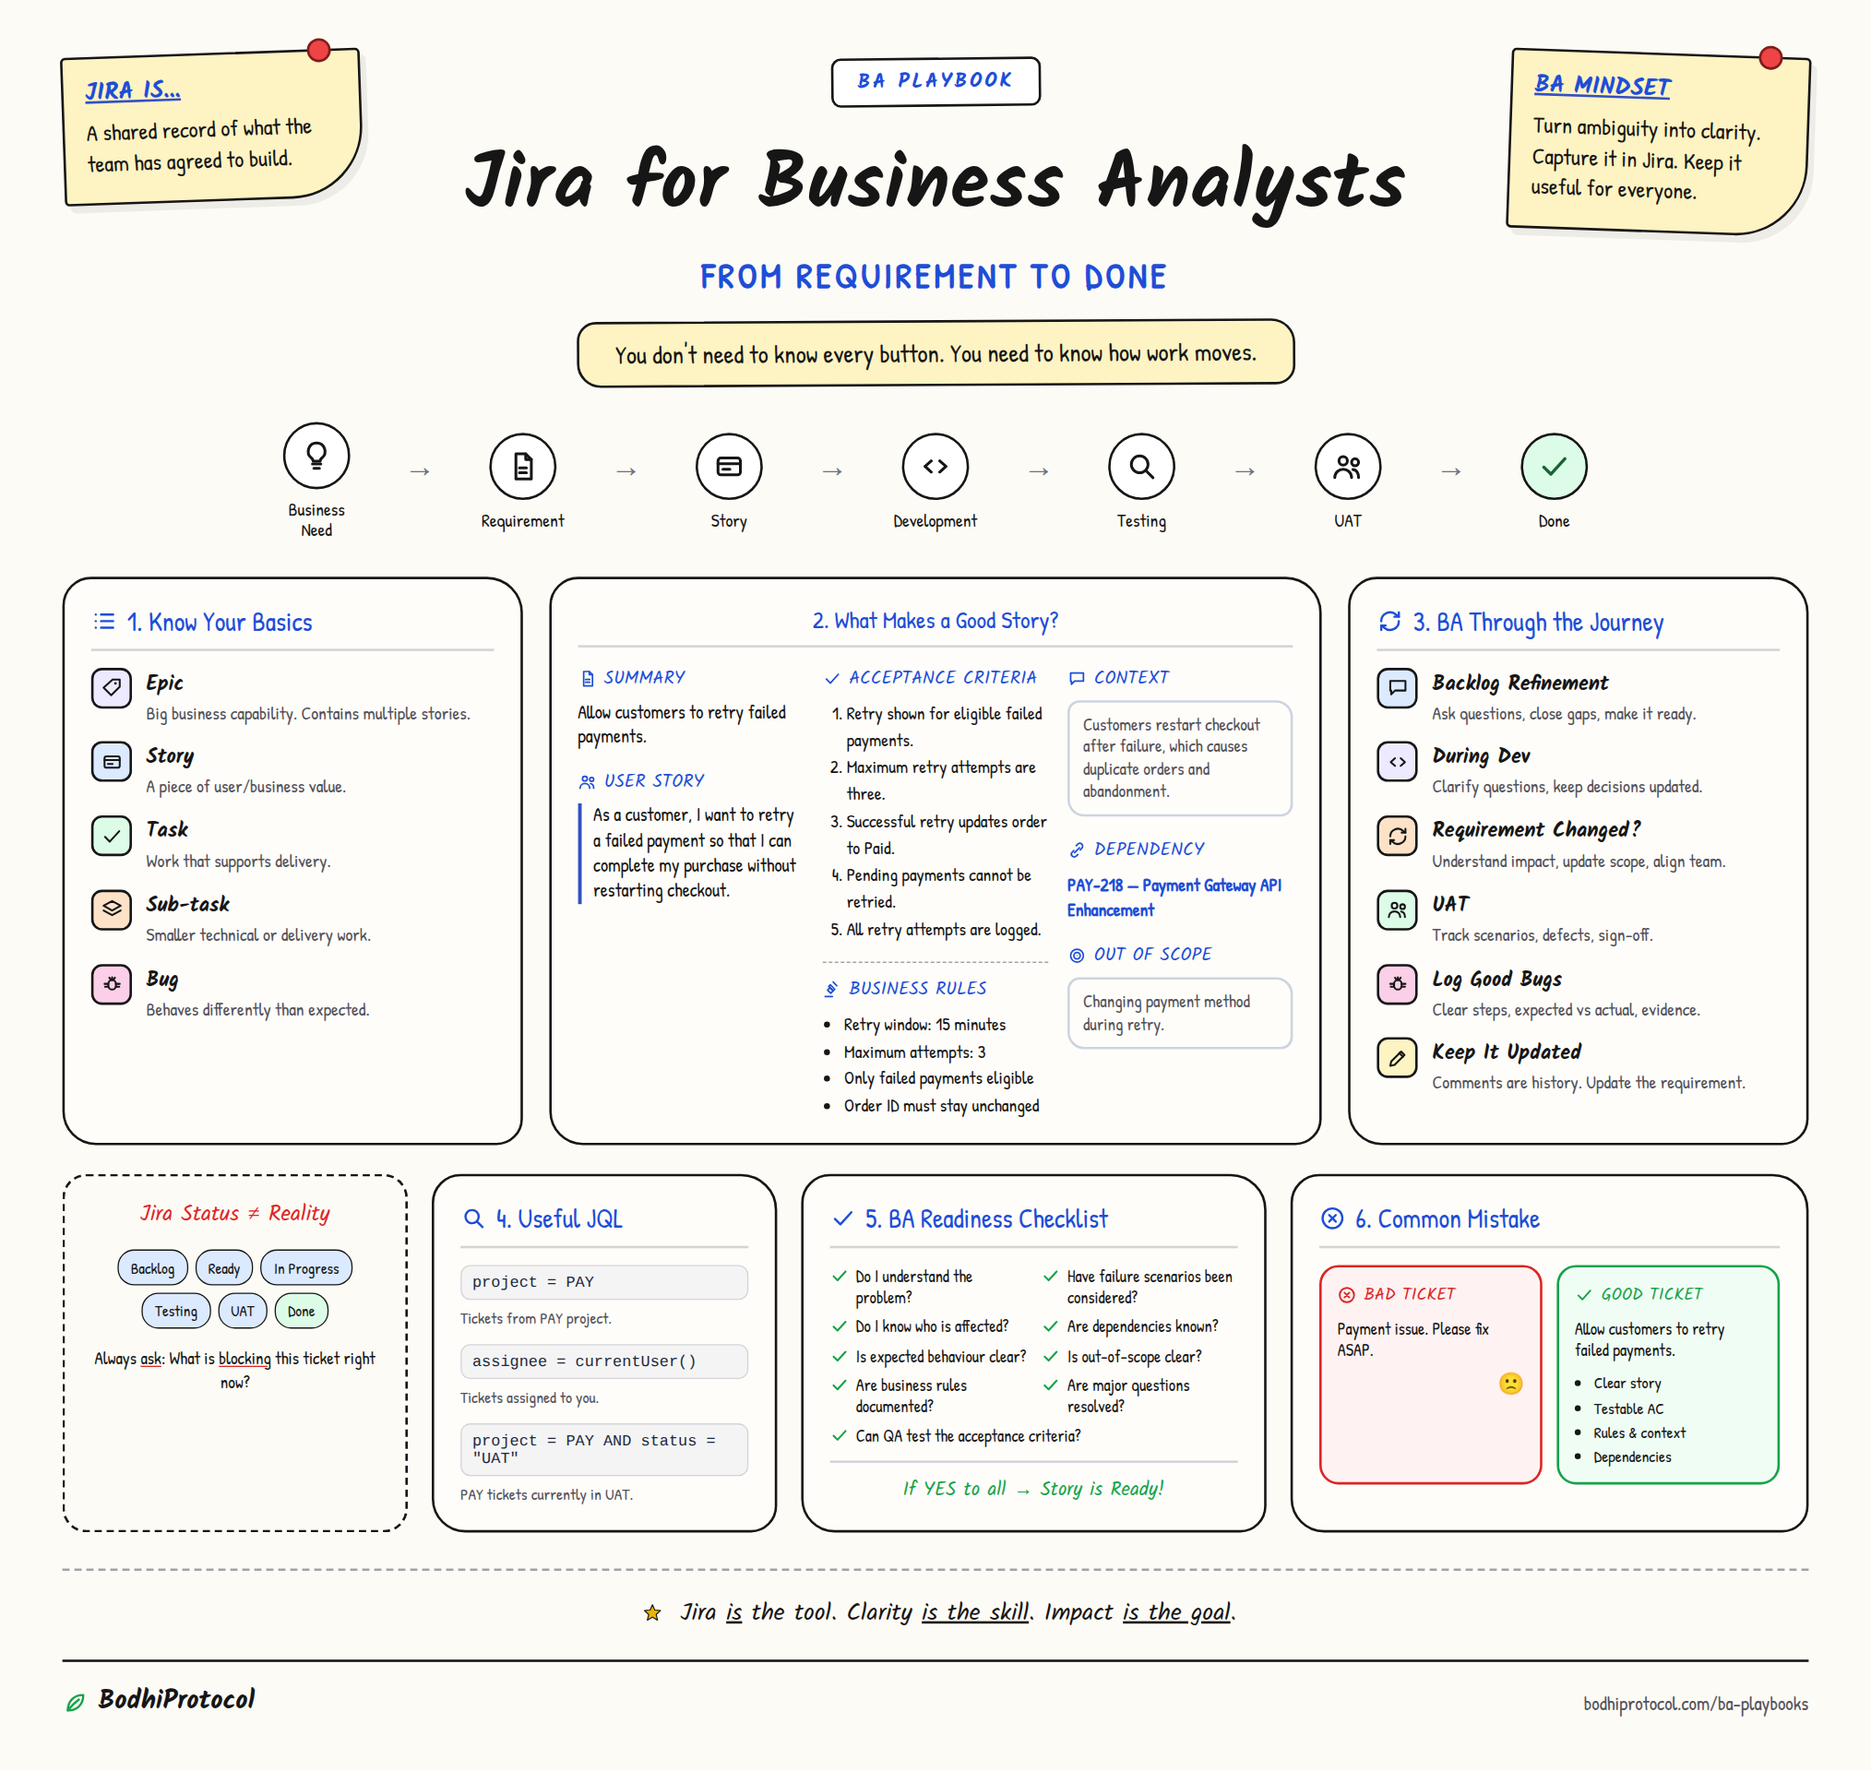
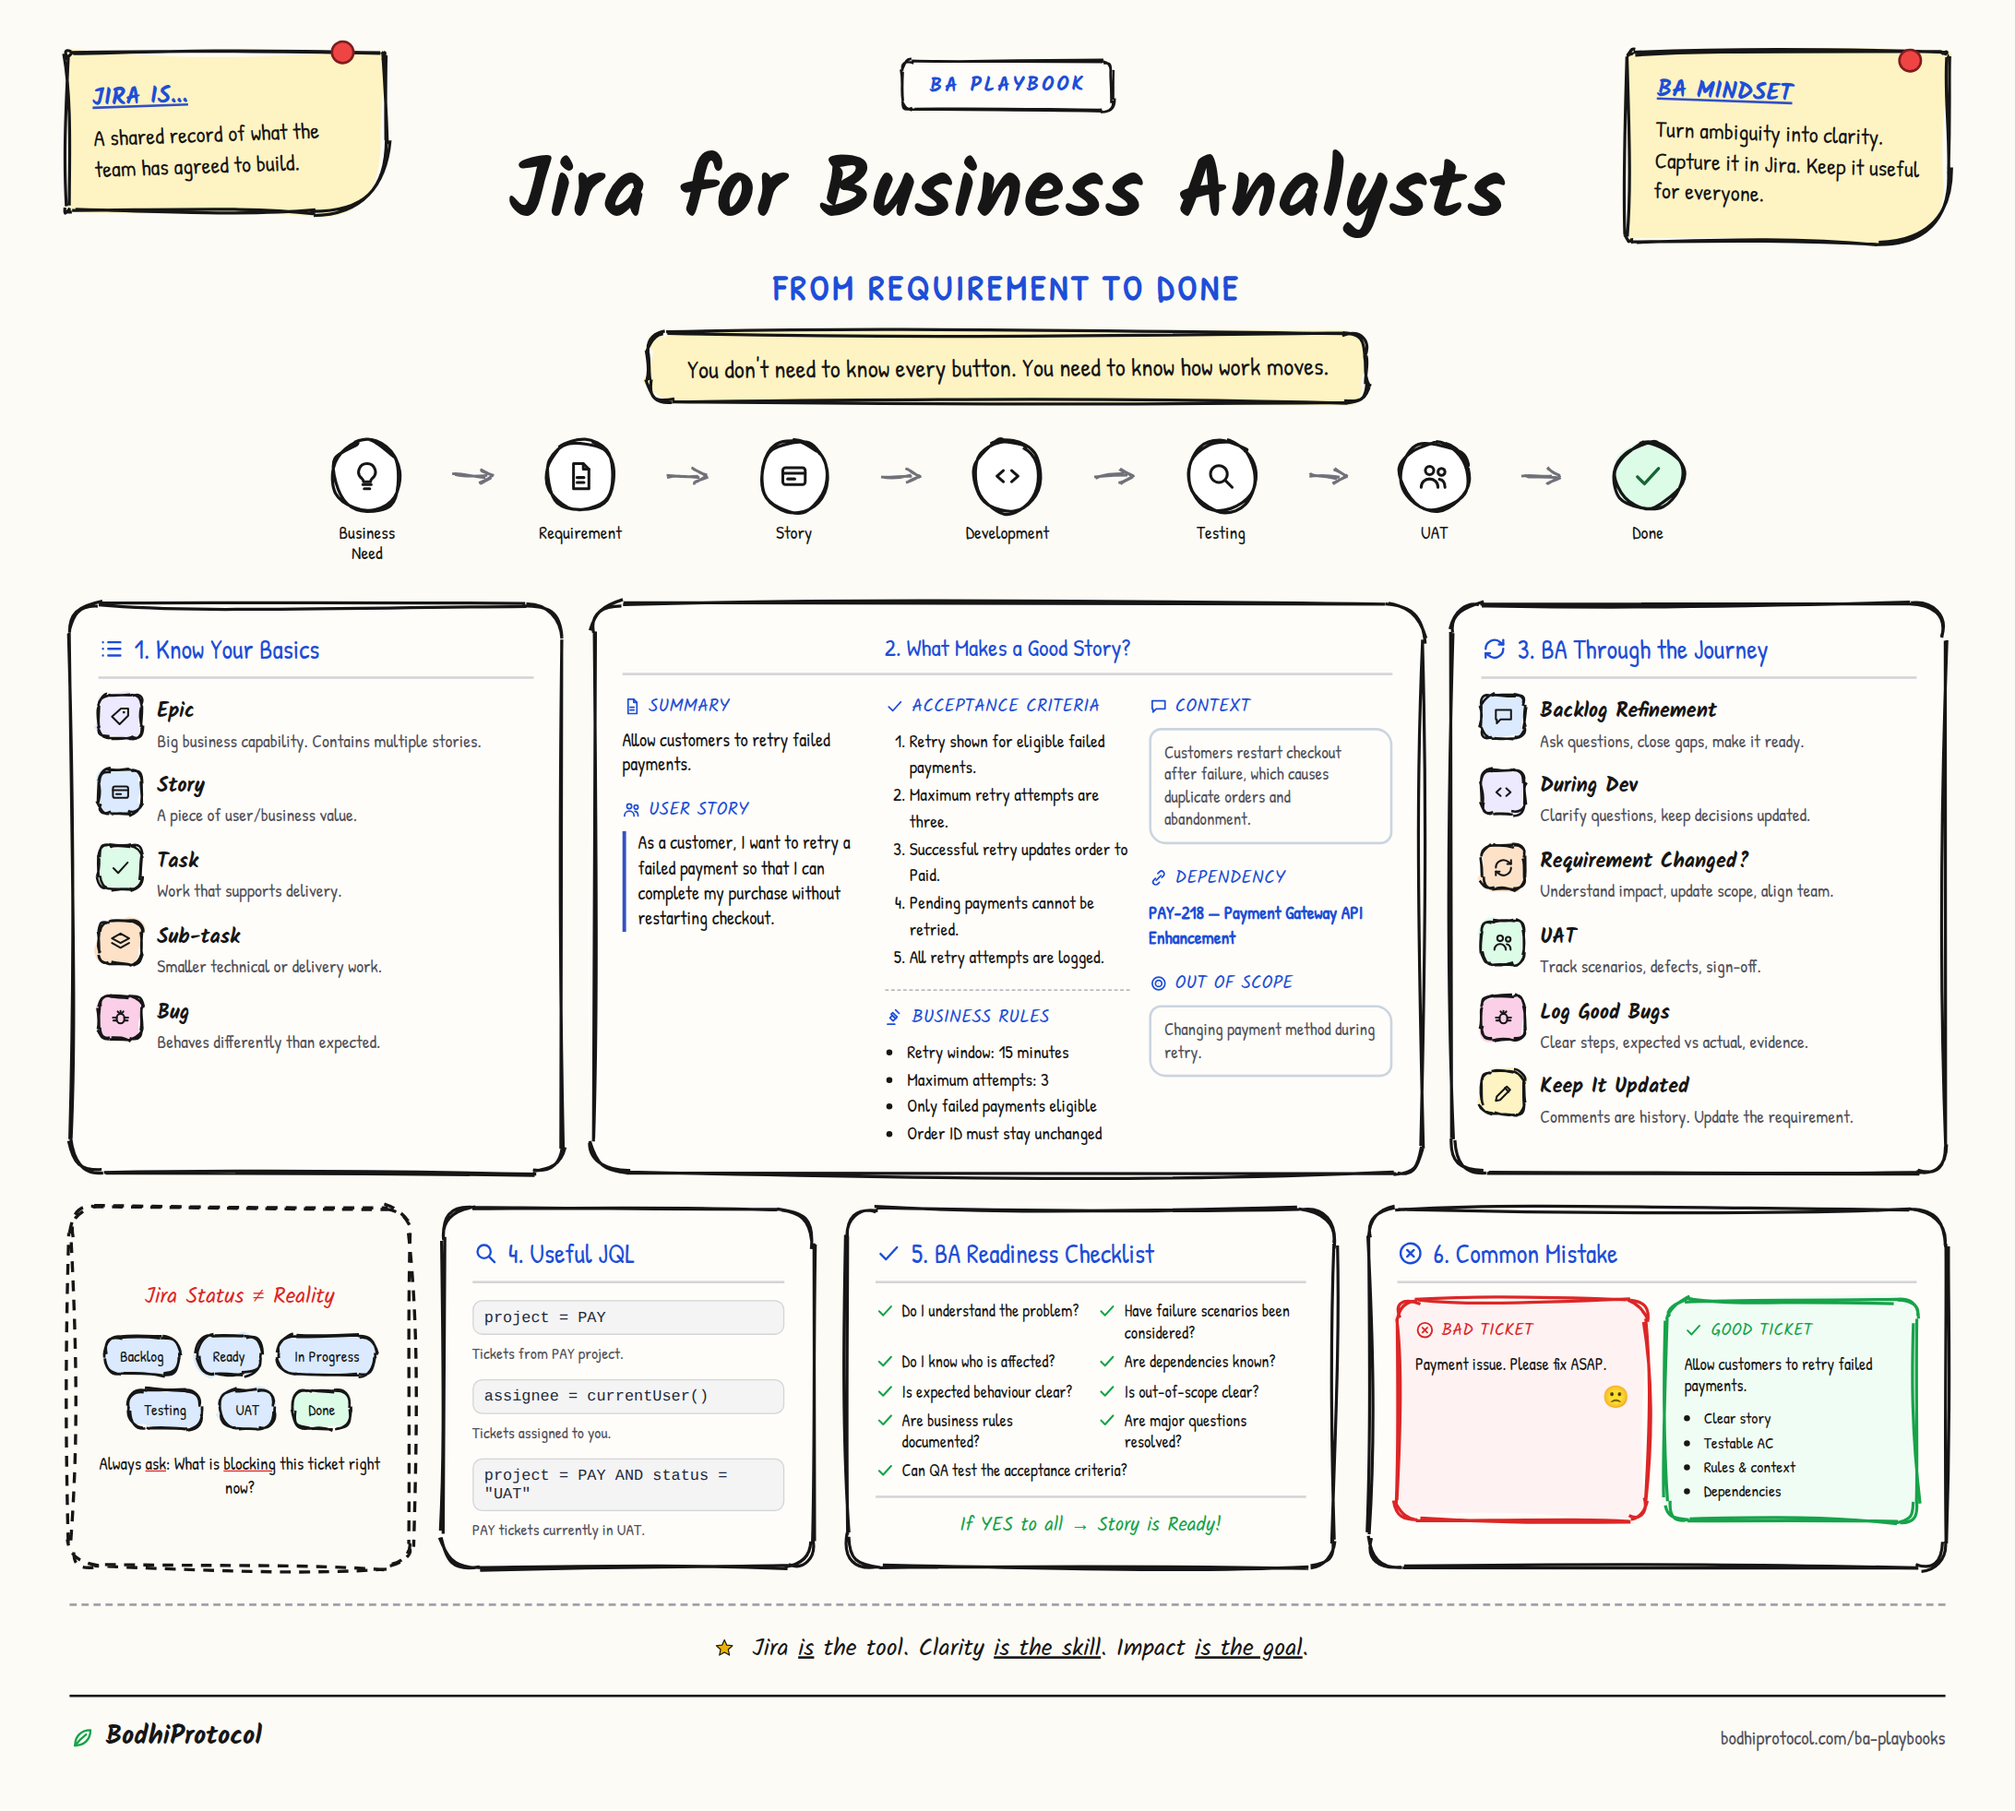
Upgrade the Jira Hacks infographic to genuine hand-drawn linework
Redraws every card, sticky note, badge, status chip, ticket box and
journey icon/arrow with rough.js-generated wobbly strokes instead of
crisp CSS borders, tunes roughness down for small elements to avoid
overlap, rebalances the bottom-row grid and status-card spacing, and
drops an experimental paper-grain overlay that quadrupled file size
for no visible gain.

Claude-Session: https://claude.ai/code/session_01HYDaNM8vhfXtiFDXp7Fye9

diff --git a/content/ba-playbooks/jira-hacks-for-business-analysts.ts b/content/ba-playbooks/jira-hacks-for-business-analysts.ts
@@ -86,8 +86,8 @@ export const jiraHacksForBusinessAnalysts: Omit<Playbook, "readingTime"> = {
   image: {
     src: "/images/ba-playbooks/jira-hacks-for-business-analysts-infographic.png",
     alt: "Infographic titled Jira for Business Analysts: From Requirement to Done, showing the Business Need to Done journey, the Epic/Story/Task/Sub-task/Bug basics, a worked payment-retry story example with acceptance criteria, business rules, context and dependencies, the BA's role through backlog refinement, development, requirement changes, UAT and bugs, a reminder that Jira status is not the same as reality, three useful JQL filters, a nine-point story readiness checklist, and a bad-ticket vs good-ticket comparison.",
-    width: 2028,
-    height: 1920,
+    width: 2184,
+    height: 1963,
     caption: "The whole habit, on one page — from a vague business need to a ticket a developer and QA can both act on.",
   },
   hacks: [
